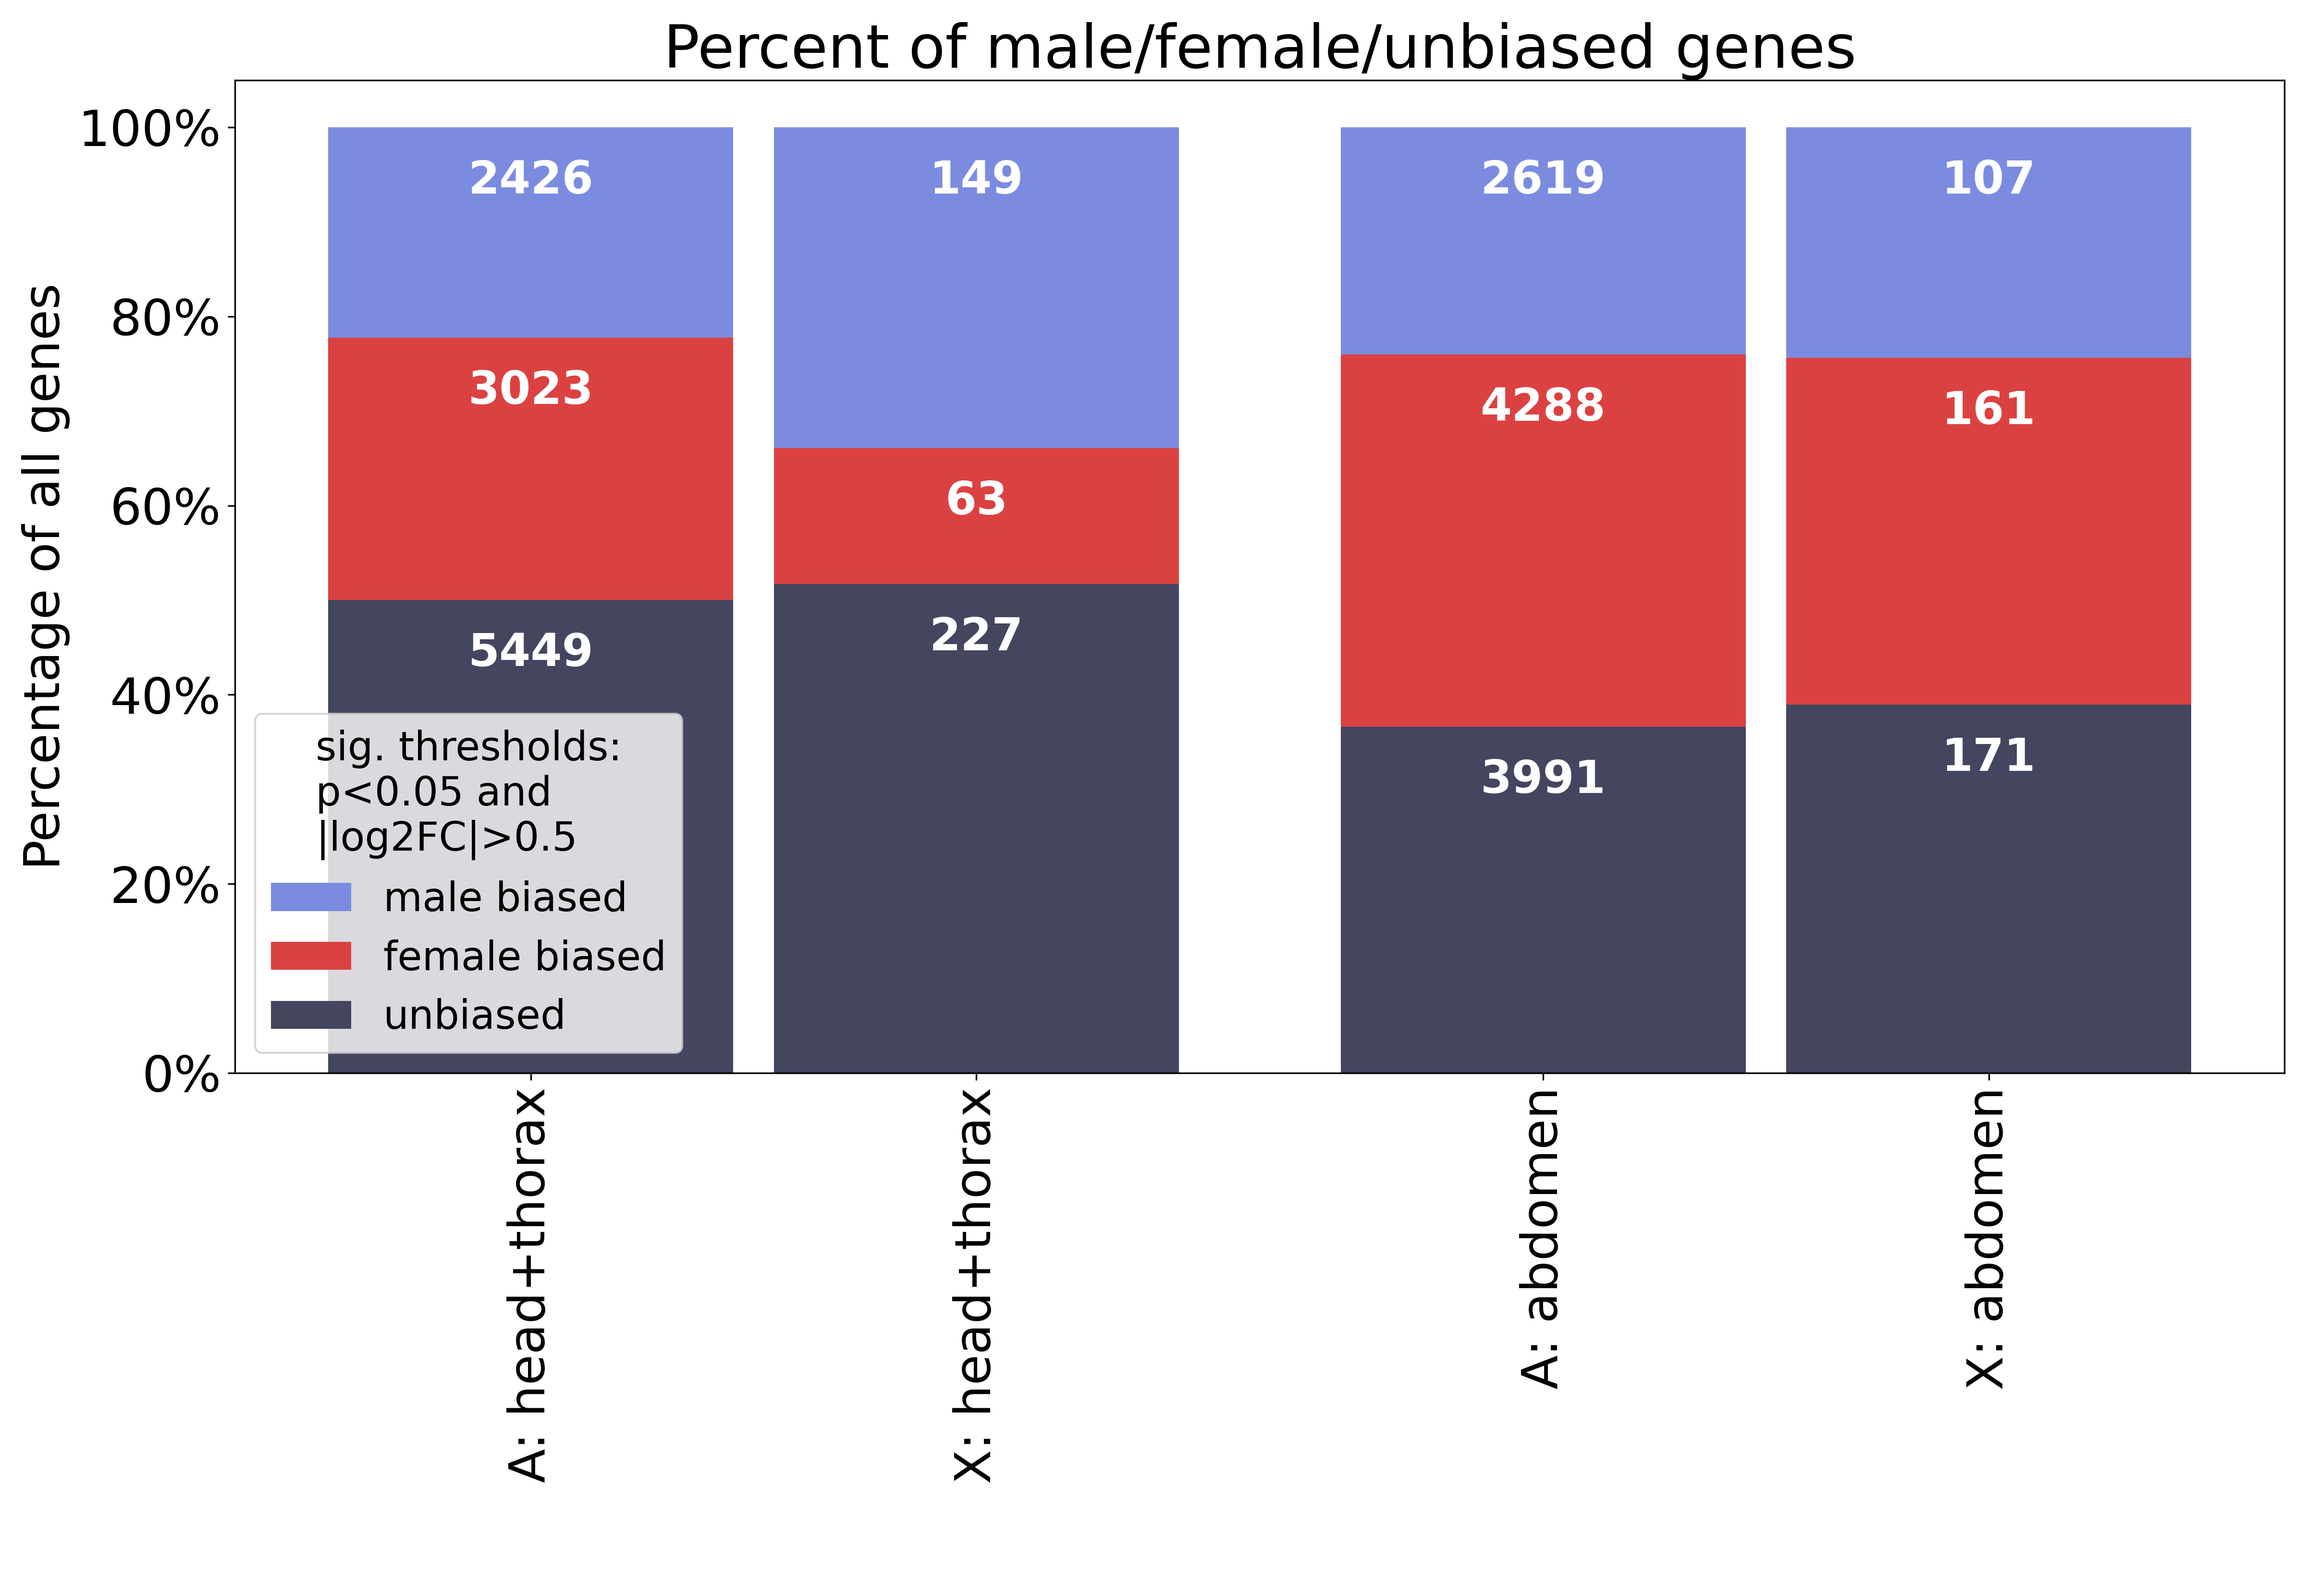
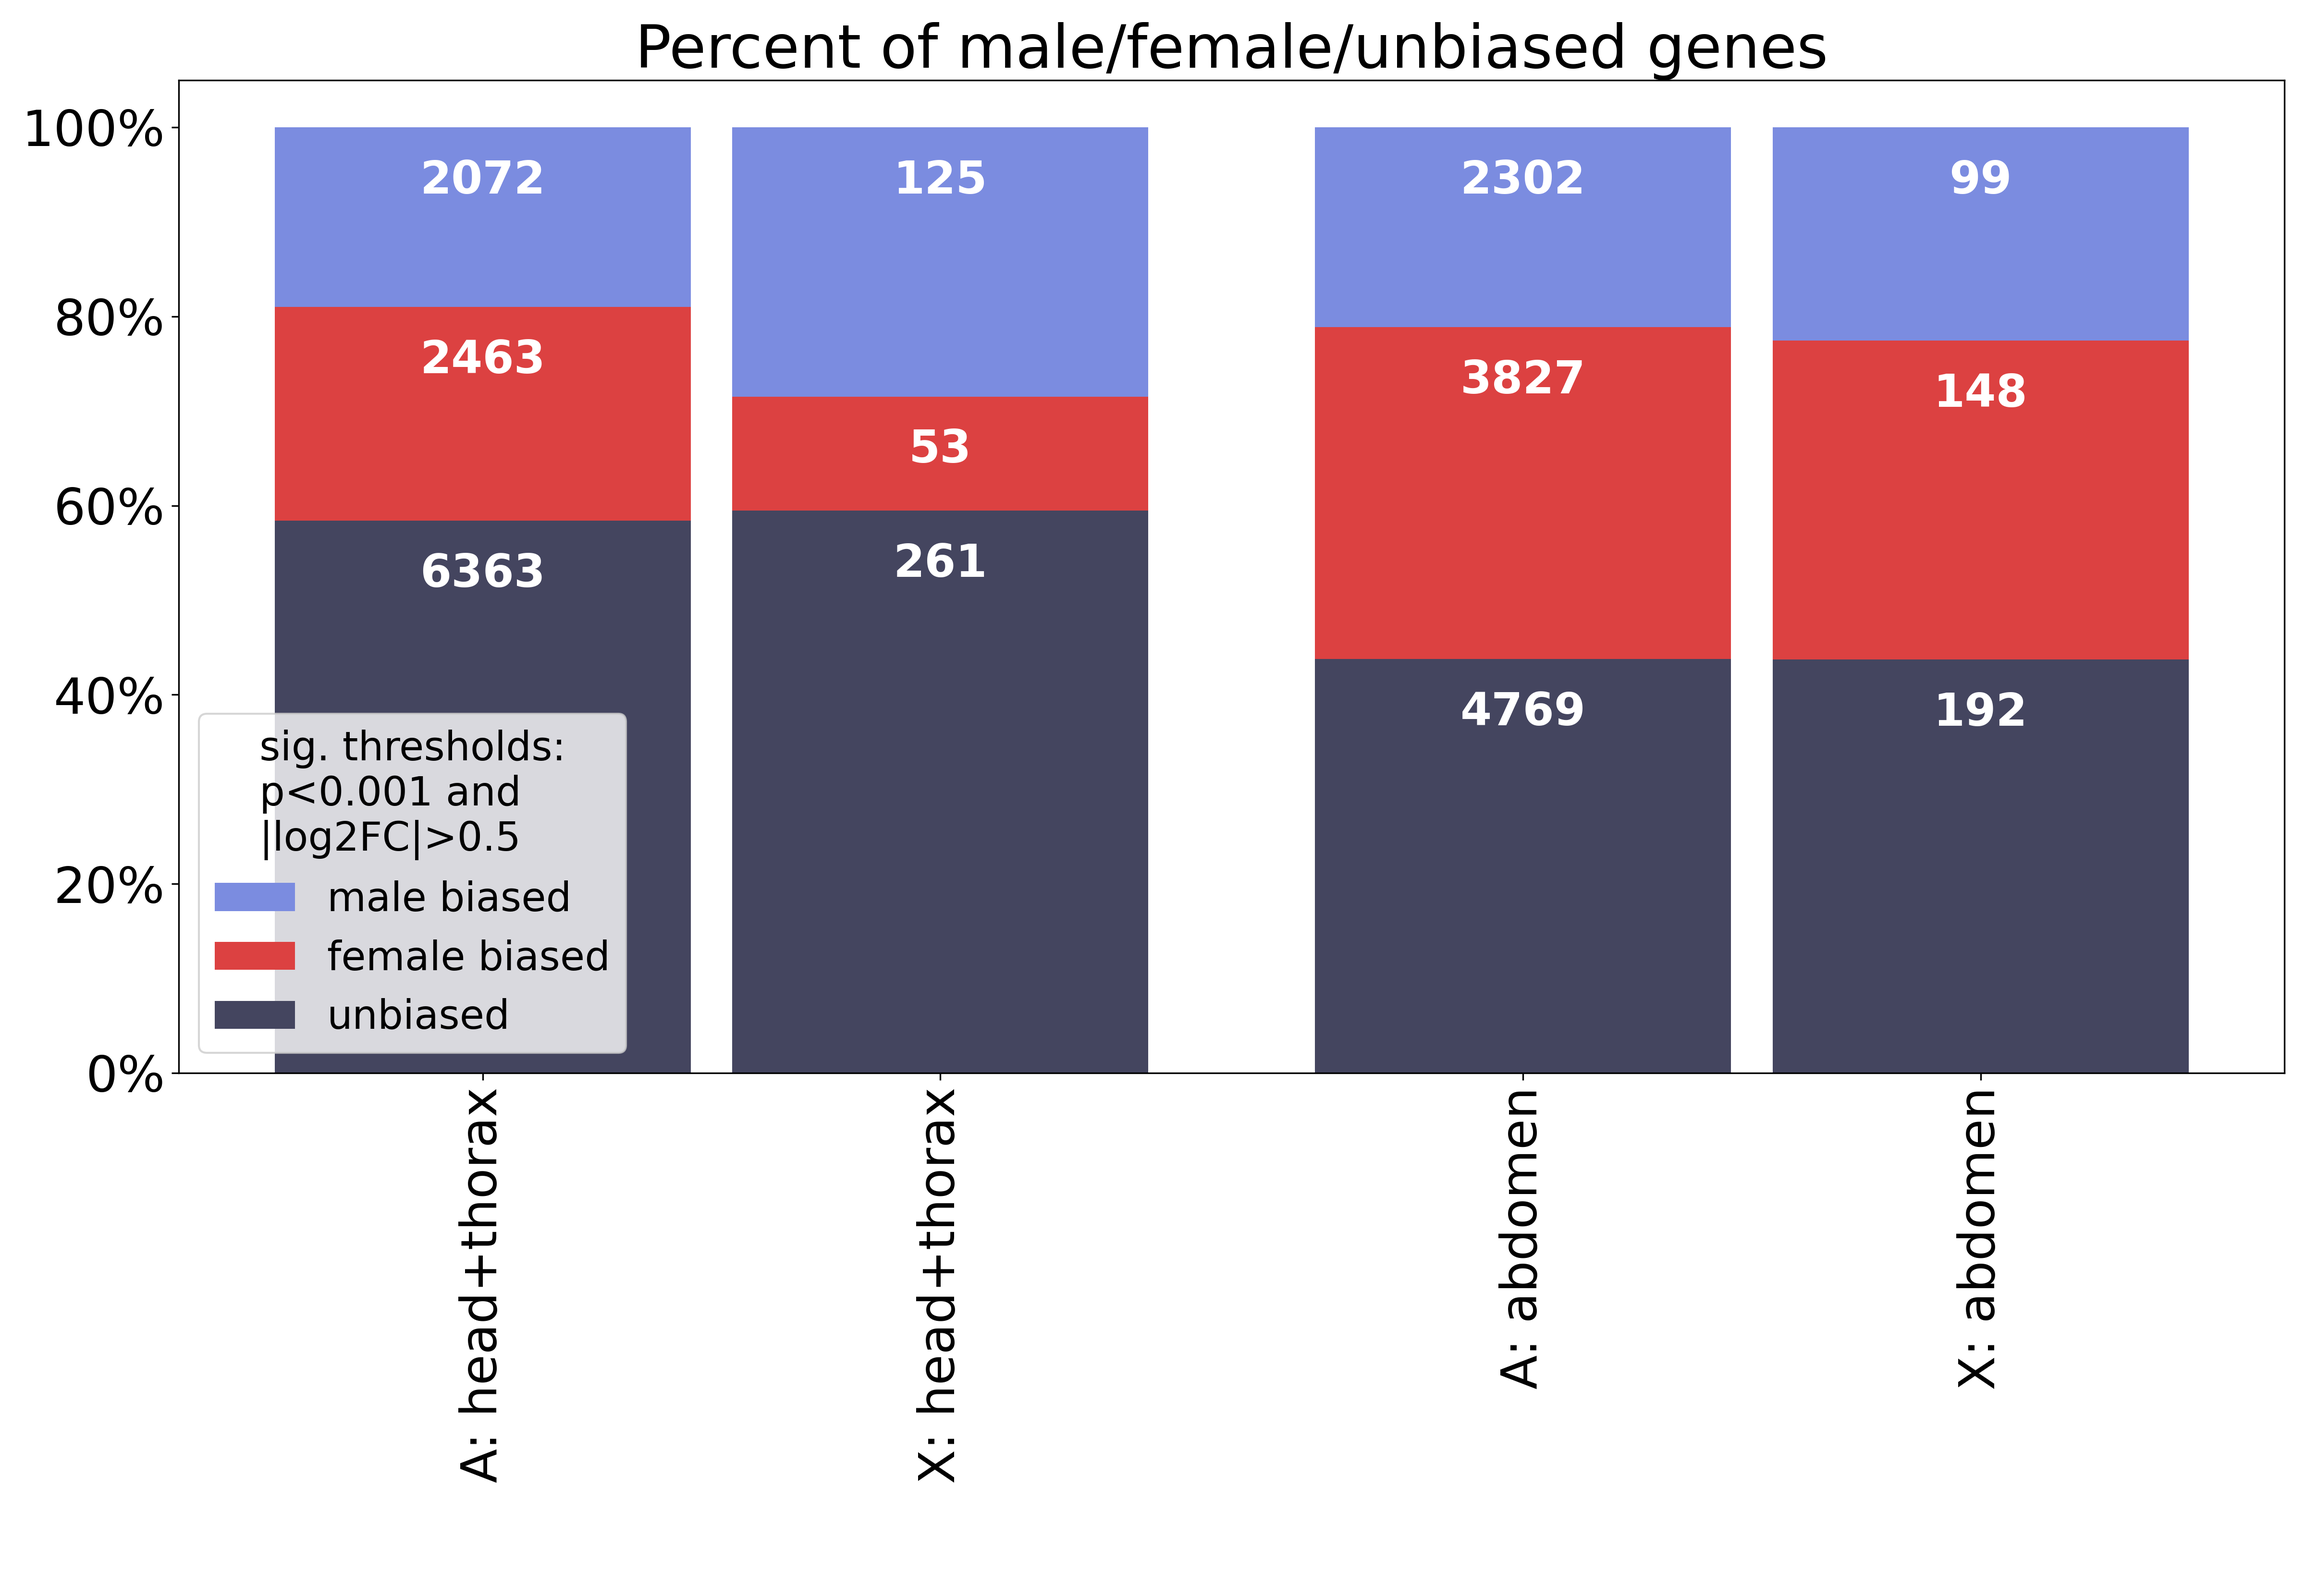
update figure

diff --git a/src/analyze_DE_stuff.py b/src/analyze_DE_stuff.py
@@ -362,7 +362,8 @@ def plot_sex_bias_bar_chart(summary_paths, annotation, X_list, sig_p_level = 0.0
     ax.tick_params(axis='x', labelsize=fs, rotation=90)
 
     ax.set_xlabel('')
-    ax.set_ylabel(f"Percentage of all genes", fontsize = fs)
+    # ax.set_ylabel(f"Percentage of all genes", fontsize = fs)
+    ax.set_ylabel('')
     ax.tick_params(axis='y', labelsize=fs)
     ax.tick_params(axis='x', labelsize=fs) 
 
@@ -394,12 +395,12 @@ if __name__ == "__main__":
     DE_paths = get_DE_paths(username=username)
     Cmac_X_contigs_list = get_Cmac_superscaffolded_XY_contigs()["X"]
 
-    if True:
+    if False:
         plot_dosage_compensation(summary_paths=DE_paths, annotation=Cmac_annotation, assembly_index=Cmac_assembly, 
             X_list=Cmac_X_contigs_list, 
             outfile=f"/Users/{username}/work/PhD_code/PhD_chapter3/data/DE_analysis/X_sex_bias.png")
 
-    if False:
+    if True:
         plot_sex_bias_bar_chart(summary_paths=DE_paths, annotation=Cmac_annotation, X_list=Cmac_X_contigs_list, 
-            sig_p_level = 0.05, minLFC = 0.5,
+            sig_p_level = 0.001, minLFC = 0.5,
             outfile=f"/Users/{username}/work/PhD_code/PhD_chapter3/data/DE_analysis/all_sex_bias_proportion.png")

diff --git a/README.md b/README.md
@@ -598,16 +598,16 @@ I had a bad time with DESeq2, and I will be using edgeR. The main point is to do
 
 number of sex-biased genes in female-male contrast:
 
-|               | abdomen       | head+thorax   |
-| ------------- | ------------- | ------------- |
-| downregulated | 3265          | 1331          |
-| unbiased      | 5279          | 9201          |
-| upregulated   | 2793          | 805           |
+|               | abdomen       | head+thorax   | sex bias      |
+| ------------- | ------------- | ------------- | ------------- |
+| downregulated | 3265          | 1331          | male-biased   |
+| unbiased      | 5279          | 9201          |               |
+| upregulated   | 2793          | 805           | female-biased |
 
 
 I have exported the results of this analysis into a table with the log2FC, FDR-corrected p-value and gene ID. I have then partitioned the sex bias by X or A for both tissues. 
 
-**!!!The numbers here don't match the table above!!! TODO why?**
+**!!!The numbers here don't match the table above!!!** Unsure what the exact parameters are that edgeR uses to determine the signficantly sex-biased genes in the female/male contrast. Mostly the trend holds though, the abdomen is more female-biased (less dosage compensated), Head+thorax has more unbiased genes overall. However, the abdomen has more female-biased genes overall according to the plot, but more male-biased (downregulated) genes according to the table.
 
 <p float="left">
   <img src="data/DE_analysis/all_sex_bias_proportion_white_bg.png" width="75%" />
